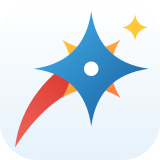
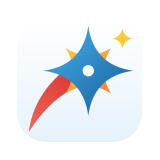
설치창의 작은 그림 둘레에 여백을 둠, Windows 만 빌드하는 옵션

diff --git a/packaging/make_installer_art.py b/packaging/make_installer_art.py
@@ -4,7 +4,7 @@
     python3 packaging/make_installer_art.py
 
     wizard_large.png      Windows 설치창의 왼쪽 큰 그림(처음과 마지막 쪽). 538 x 1030, 비율 164:314
-    wizard_small.png      Windows 설치창의 오른쪽 위 작은 그림(나머지 쪽과 진행 창). 160 x 160
+    wizard_small.png      Windows 설치창의 오른쪽 위 작은 그림(나머지 쪽과 진행 창). 160 x 160, 둘레에 투명한 여백
     dmg_background.tiff   macOS 설치 이미지를 열었을 때 창의 바탕. 660 x 420 pt(1 배와 2 배가 함께 들어 있다)
 색은 앱의 시작 화면(연두)과 같고 로고는 app/assets 의 것을 그대로 쓴다.
 """
@@ -64,8 +64,12 @@ def wizard_large(w=538, h=1030):
     image.convert('RGB').save(OUT / 'wizard_large.png', optimize=True)
 
 
-def wizard_small(size=160):
-    render((ASSETS / 'icon.svg').read_text(encoding='utf-8'), size).save(OUT / 'wizard_small.png', optimize=True)
+def wizard_small(size=160, margin=0.11):
+    """앱 아이콘 둘레에 투명한 여백을 둔다(창의 위쪽과 오른쪽 모서리에 붙어 보이지 않게)."""
+    icon = render((ASSETS / 'icon.svg').read_text(encoding='utf-8'), round(size * (1 - 2 * margin)))
+    canvas = Image.new('RGBA', (size, size), (0, 0, 0, 0))
+    canvas.alpha_composite(icon, ((size - icon.width) // 2, (size - icon.height) // 2))
+    canvas.save(OUT / 'wizard_small.png', optimize=True)
 
 
 def dmg_background(w=660, h=420):
